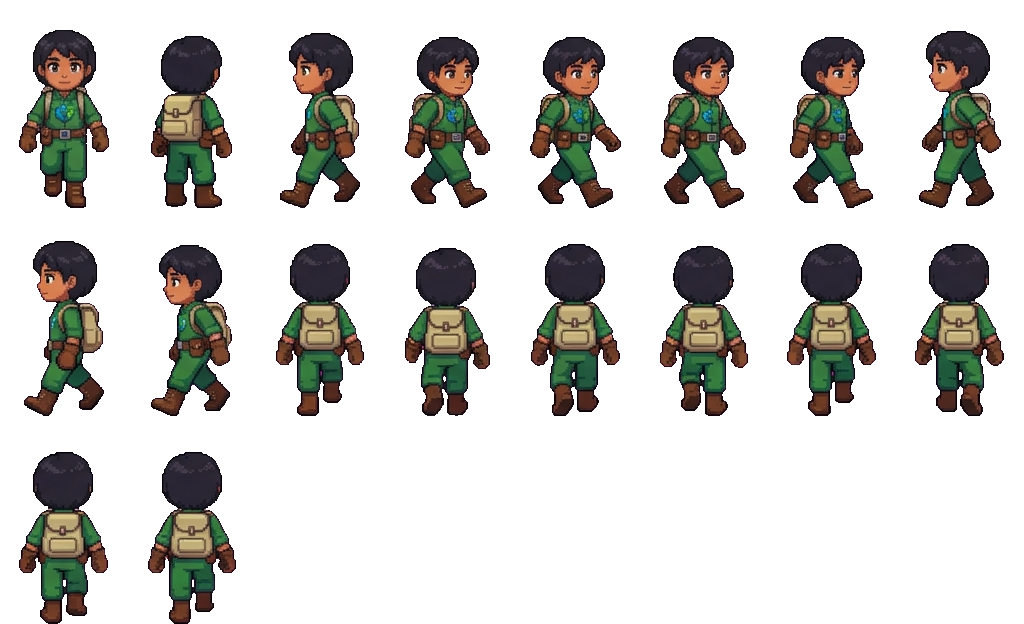
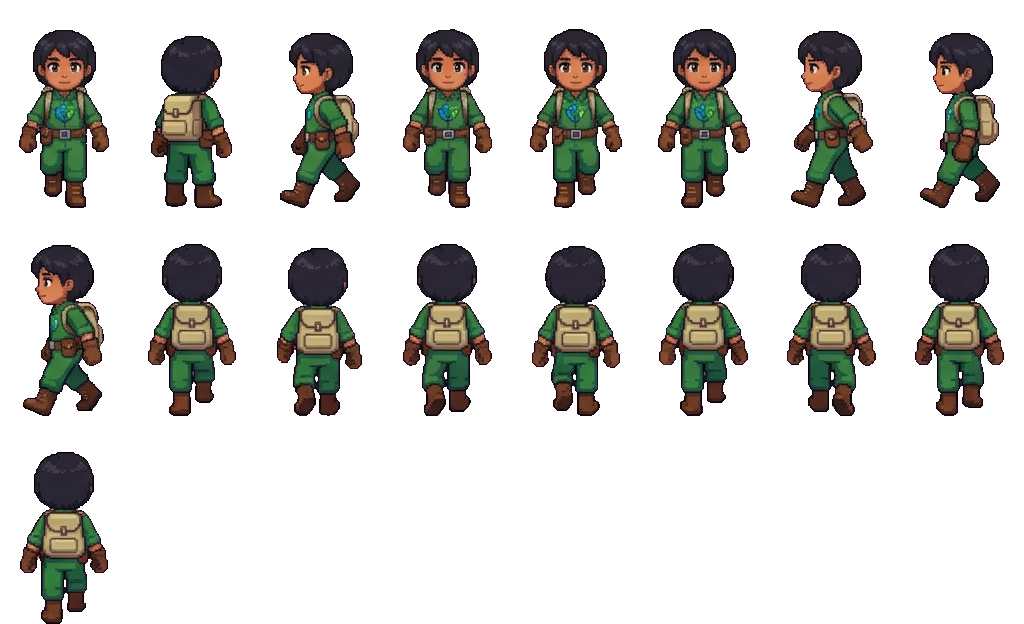
fix: el niño camina de frente al bajar en el valle
Se usaban cuadros en diagonal para caminar hacia abajo; ahora se usan los
4 cuadros de frente de la misma hoja.

diff --git a/tools/arte/procesar.py b/tools/arte/procesar.py
@@ -139,7 +139,7 @@ def guardianes() -> None:
     personaje_aereo(
         "gara_aerea.jpg", "gara", "gara",
         idle={"abajo": 0, "arriba": 11, "izquierda": 4},
-        caminar={"abajo": [8, 9, 10, 13], "izquierda": [4, 5, 6, 12], "arriba": [16, 17, 18, 19, 20, 21, 22, 23]},
+        caminar={"abajo": [0, 1, 2, 3], "izquierda": [4, 5, 6, 12], "arriba": [16, 17, 18, 19, 20, 21, 22, 23]},
         fps_arriba=12.0,
     )
     personaje_aereo(
